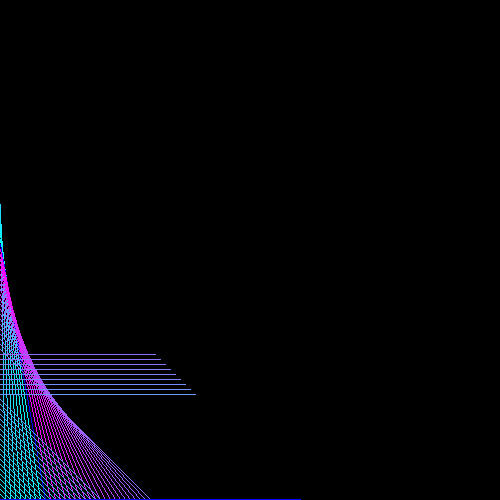
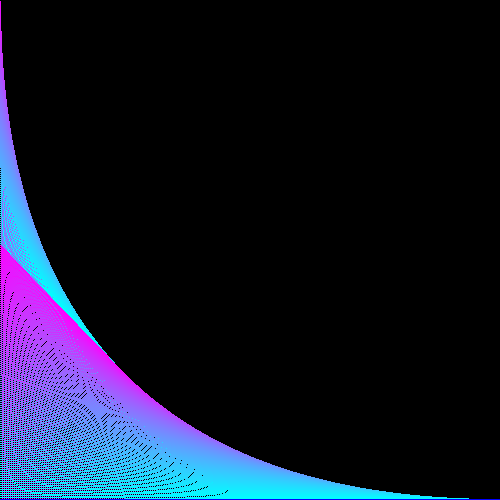
gr8

Changed region(s): [[0.0, 0.06, 1.0, 1.0]]

diff --git a/main.py b/main.py
@@ -14,23 +14,23 @@ color = [ 255, 0, 0 ]
 draw_line(50,0,150,200,screen,color)
 
 
-#O3
+#O8
 color = [ 0, 255, 0 ]
-draw_line(0,95,60,76,screen,color)
+draw_line(0,95,200,90,screen,color)
 
 
-#O4
+#O7
 color = [ 0, 255, 255 ]
 draw_line(45,120,60,62,screen,color)
+
+
 '''
 
-
-
-n = 300
+n = 500
 while (n >= 0):
     color = [n % 255, (-1 * n) % 255, 255]
-    draw_line(0,n,300-n,0,screen,color)
-    n-=5
+    draw_line(0,n,500-n,0,screen,color)
+    n-=2
 
 
 

diff --git a/draw.py b/draw.py
@@ -35,12 +35,11 @@ def draw_line( x0, y0, x1, y1, screen, color):
          d = 2*A-B
          while x <= x1:
             plot(screen,color,x,y)
-            if d>=0:
+            if d<=0:
                y-=1
                d-=2*B
             x+=1
             d+=2*A  #octant 7 - not done
-         
       else:
          d = A - 2*B
          while y >= y1:
